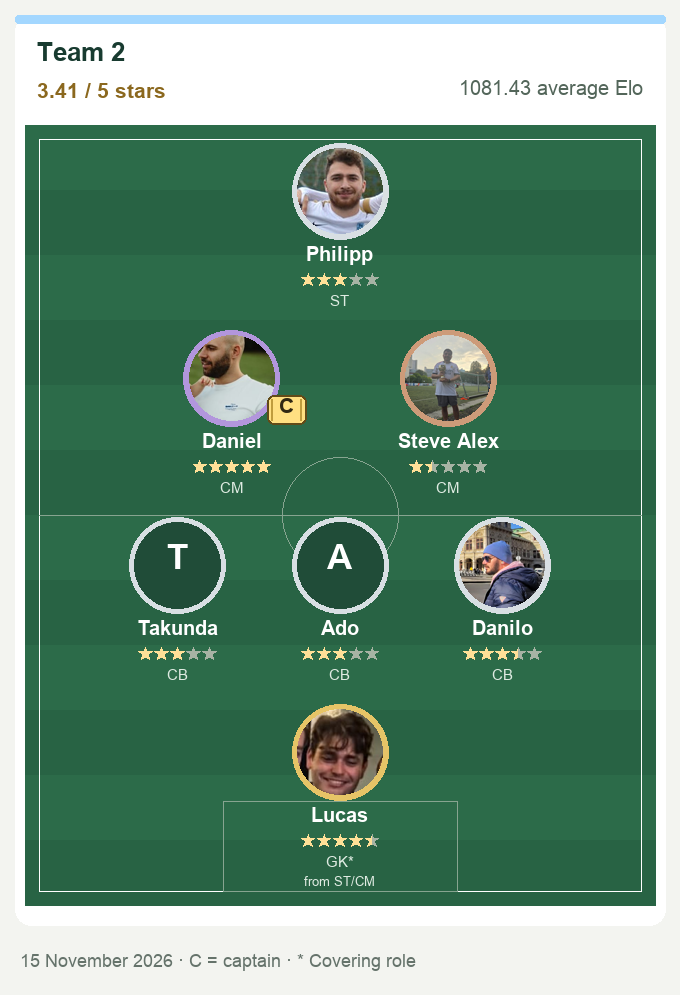
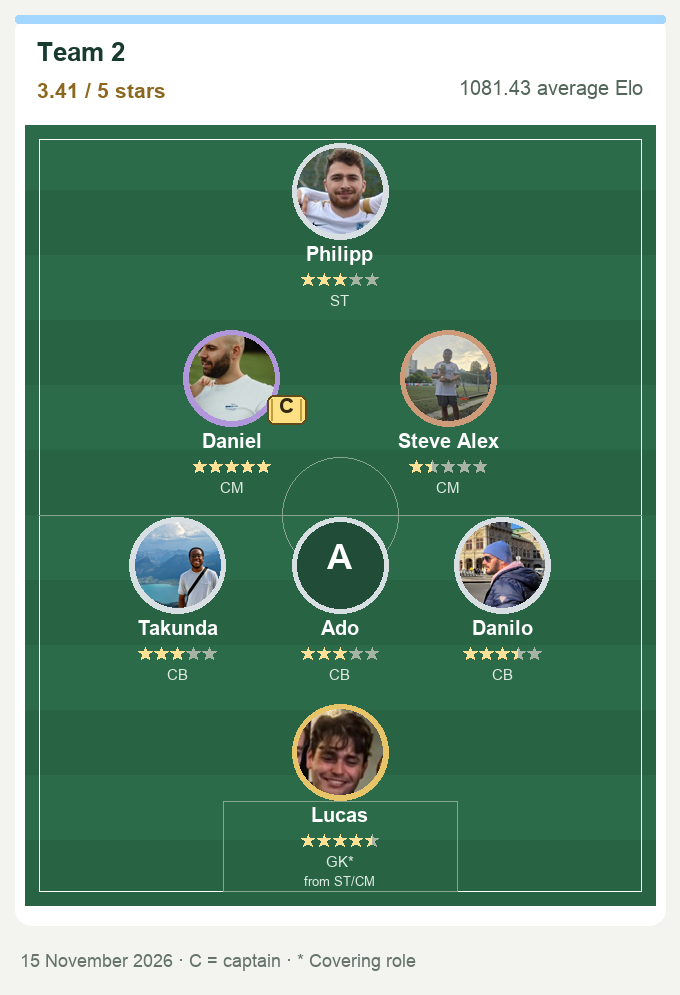
Add Takunda and Laurenz photos to cards and team figures

Changed region(s): [[0.1853, 0.4985, 0.3397, 0.6231]]

diff --git a/index.html b/index.html
@@ -310,8 +310,8 @@
       <div class="squad-heading"><div class="eyebrow">Grande Amore FC / Matches</div><h1 id="matches-title">Tournament</h1><time class="match-date" datetime="2026-11-15">Sunday · 15 November 2026</time></div>
       <div class="match-teams" id="november-15-teams">
         <figure class="match-team-figure"><figcaption class="match-result-caption">Team 1 · 4 pts</figcaption><a href="assets/teams/2026-11-15/team-1.png" aria-label="Open Team 1 figure"><img src="assets/teams/2026-11-15/team-1.png" width="680" height="995" alt="Team 1, captain Loay: Shahrom, Loay, Iacob, Darius, Giorgios, Teodor, Hay"></a></figure>
-        <figure class="match-team-figure"><figcaption class="match-result-caption">Team 2 · 4 pts</figcaption><a href="assets/teams/2026-11-15/team-2.png" aria-label="Open Team 2 figure"><img src="assets/teams/2026-11-15/team-2.png" width="680" height="995" alt="Team 2, captain Daniel: Philipp, Daniel, Steve Alex, Takunda, Ado, Danilo, Lucas"></a></figure>
-        <figure class="match-team-figure"><figcaption class="match-result-caption">Team 3 · Champions · 7 pts</figcaption><a href="assets/teams/2026-11-15/team-3.png" aria-label="Open Team 3 figure"><img src="assets/teams/2026-11-15/team-3.png" width="680" height="995" alt="Team 3, captain Davide Polli: Vadim, fabian, Andreeas, Davide Polli, Nikita, Baraa, Laurenz"></a></figure>
+        <figure class="match-team-figure"><figcaption class="match-result-caption">Team 2 · 4 pts</figcaption><a href="assets/teams/2026-11-15/team-2.png?v=20261115-newphotos" aria-label="Open Team 2 figure"><img src="assets/teams/2026-11-15/team-2.png?v=20261115-newphotos" width="680" height="995" alt="Team 2, captain Daniel: Philipp, Daniel, Steve Alex, Takunda, Ado, Danilo, Lucas"></a></figure>
+        <figure class="match-team-figure"><figcaption class="match-result-caption">Team 3 · Champions · 7 pts</figcaption><a href="assets/teams/2026-11-15/team-3.png?v=20261115-newphotos" aria-label="Open Team 3 figure"><img src="assets/teams/2026-11-15/team-3.png?v=20261115-newphotos" width="680" height="995" alt="Team 3, captain Davide Polli: Vadim, fabian, Andreeas, Davide Polli, Nikita, Baraa, Laurenz"></a></figure>
         <figure class="match-team-figure"><figcaption class="match-result-caption">Team 4 · 1 pts</figcaption><a href="assets/teams/2026-11-15/team-4.png" aria-label="Open Team 4 figure"><img src="assets/teams/2026-11-15/team-4.png" width="680" height="995" alt="Team 4, captain Samu: Obaida, Alexandros, Momo, Alex (Samuel), Mostafa, Jack, Samu"></a></figure>
       </div>
       <section class="match-archive" aria-labelledby="match-archive-nov8-title">
@@ -371,7 +371,7 @@
   <footer>Grande Amore FC · Together on and off the pitch.</footer>
 <script src="config.js?v=original-url-1"></script>
 <script src="placement-preview.js"></script>
-<script src="players.js?v=20261115-alex-samuel"></script>
+<script src="players.js?v=20261115-takunda-laurenz-photos"></script>
 <script src="goals.js?v=20261109-nov8-contributions"></script>
 <script src="matches.js?v=20261115-results"></script>
 <script src="season.js?v=20261115-results"></script>

diff --git a/players.js b/players.js
@@ -7,7 +7,7 @@ const roster = [
   ['fabian', 'CM', 1000, 'players/fabian.jpg'], ['Enil', 'CM', 1200, 'players/enil.jpg'], ['gabi', 'CM', 1000, 'players/gabi.jpg'],
   ['Daniel', 'CM/ST', 1200, 'players/daniel.jpg'], ['Levi', 'CM', 1000, 'players/levi.jpg'], ['Samu', 'ST/CM', 1000, 'players/samu.jpg'],
   ['Dejan', 'CB', 1000], ['Jack', 'CB', 1000, 'players/jack.jpg'], ['Ali', 'ST/CB', 1000, 'players/ali.jpg'],
-  ['Omar', 'CM', 1000, 'players/omar.jpg'], ['Baraa', 'CB', 1000, 'players/baraa.jpg'], ['Takunda', 'CB', 1000],
+  ['Omar', 'CM', 1000, 'players/omar.jpg'], ['Baraa', 'CB', 1000, 'players/baraa.jpg'], ['Takunda', 'CB', 1000, 'players/takunda.jpg'],
   ['Danilo', 'CB', 1000, 'players/danilo.jpg'], ['Andreeas', 'CM', 1000], ['davideb', 'CM', 1000, 'players/davideb.jpg'],
   ['Nikita', 'CB', 1000, 'players/nikita.jpg'], ['Iacob', 'CM', 1000], ['Damien', 'CB', 1000, 'players/damien.jpg'],
   ['Valentin', 'CM', 1000], ['Milan', 'CM', 1000, 'players/Milan.jpeg'], ['Mohamed', 'CB', 1000, 'players/mohamed.jpg'],
@@ -42,7 +42,7 @@ const roster = [
   ['Cedo', 'CB', 1000],
   ['Ali K', 'CM', 1000],
   ['Vadim', 'ST', 1000],
-  ['Laurenz', 'CM', 1000],
+  ['Laurenz', 'CM', 1000, 'players/laurenz.jpg'],
   ['Saad', 'ST', 1000],
   ['Davide Polli', 'ST', 1200, 'players/davide_polli.jpg'],
   ['Philipp', 'ST', 1000, 'players/philipp.jpg'],
